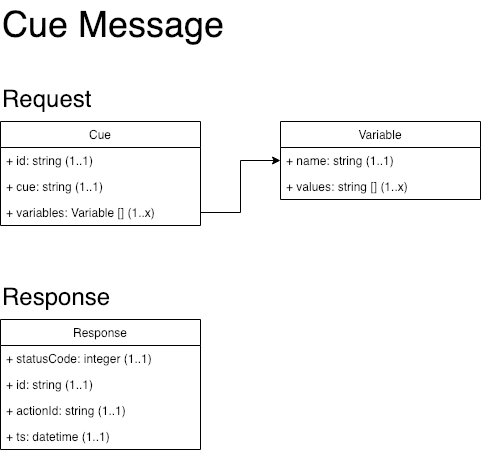
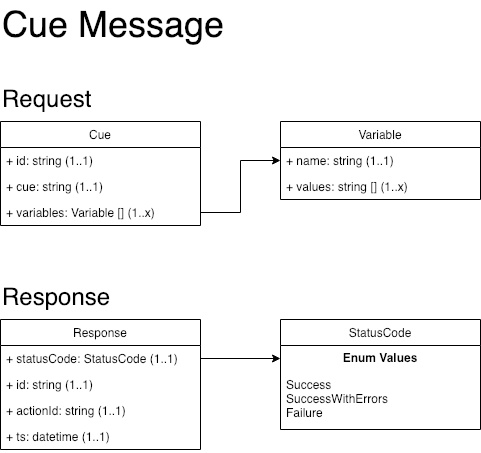
Standardized "StatusCode" across all replies.

diff --git a/scripts/Relay Tier/syntinel-process-signal.py b/scripts/Relay Tier/syntinel-process-signal.py
@@ -39,24 +39,40 @@ def lambda_handler(event, context):
 
     channels = reporter.get('channels', {})
     sendResults = []
+    totalCount = 0
+    failureCount = 0
+    statusCode = "Success"
     for channel in channels:
+        totalCount += 1
         type = channel.get('type')
         lambdaName = 'syntinel-signal-publisher-' + type
         lambdaRecord = { 'id': messageId, 'signal': event, 'channel': channel }
 
         # Invoke Lambda Function
-        lam = boto3.client('lambda')
-        print(messageId, "Signal Sent :", lambdaName, "-", channel.get('name'))
-        rc = lam.invoke(FunctionName=lambdaName, InvocationType='Event', Payload=json.dumps(lambdaRecord))
+        status = { 'code': 'Success', 'channel': channel.get('name'), 'type': type, 'message': "Signal Sent" }
+        try :
+            lam = boto3.client('lambda')
+            rc = lam.invoke(FunctionName=lambdaName, InvocationType='Event', Payload=json.dumps(lambdaRecord))
+        except Exception as err:
+            statusCode = "SuccessWithErrors"
+            status.update( { 'code': 'Failure', 'message': str(err) } )
+            failureCount += 1
+
+        print(messageId, status, "(", lambdaName, ")")
+        sendResults.append(status)
 
     addlInfo = { '_status': 'Sent' }
     dbRecord.update(addlInfo)
     table.put_item(Item=dbRecord)
     
+    if totalCount == failureCount and totalCount > 0:
+        statusCode = "Failure"
+    
     reply = {
-        'statusCode': 200,
+        'statusCode': statusCode,
         'id': messageId,
-        'ts': ts
+        'ts': ts,
+        'results': sendResults
     }
 
     print("Reply:", reply)

diff --git a/scripts/Relay Tier/syntinel-process-cue.py b/scripts/Relay Tier/syntinel-process-cue.py
@@ -91,7 +91,7 @@ def lambda_handler(event, context):
         raise ValueError('Signal [' + id + '] Not Found.')
 
     reply = {
-        'statusCode': rc.get('StatusCode', 0),
+        'statusCode': "Success",
         'id': id,
         'actionId': actionId,
         'ts': ts

diff --git a/scripts/Relay Tier/syntinel-process-status.py b/scripts/Relay Tier/syntinel-process-status.py
@@ -57,7 +57,7 @@ def lambda_handler(event, context):
         raise ValueError('Signal [' + id + '] Not Found.')
 
     reply = {
-        'statusCode': 200
+        'statusCode': "Success"
     }
     
     print("Reply:", reply)
